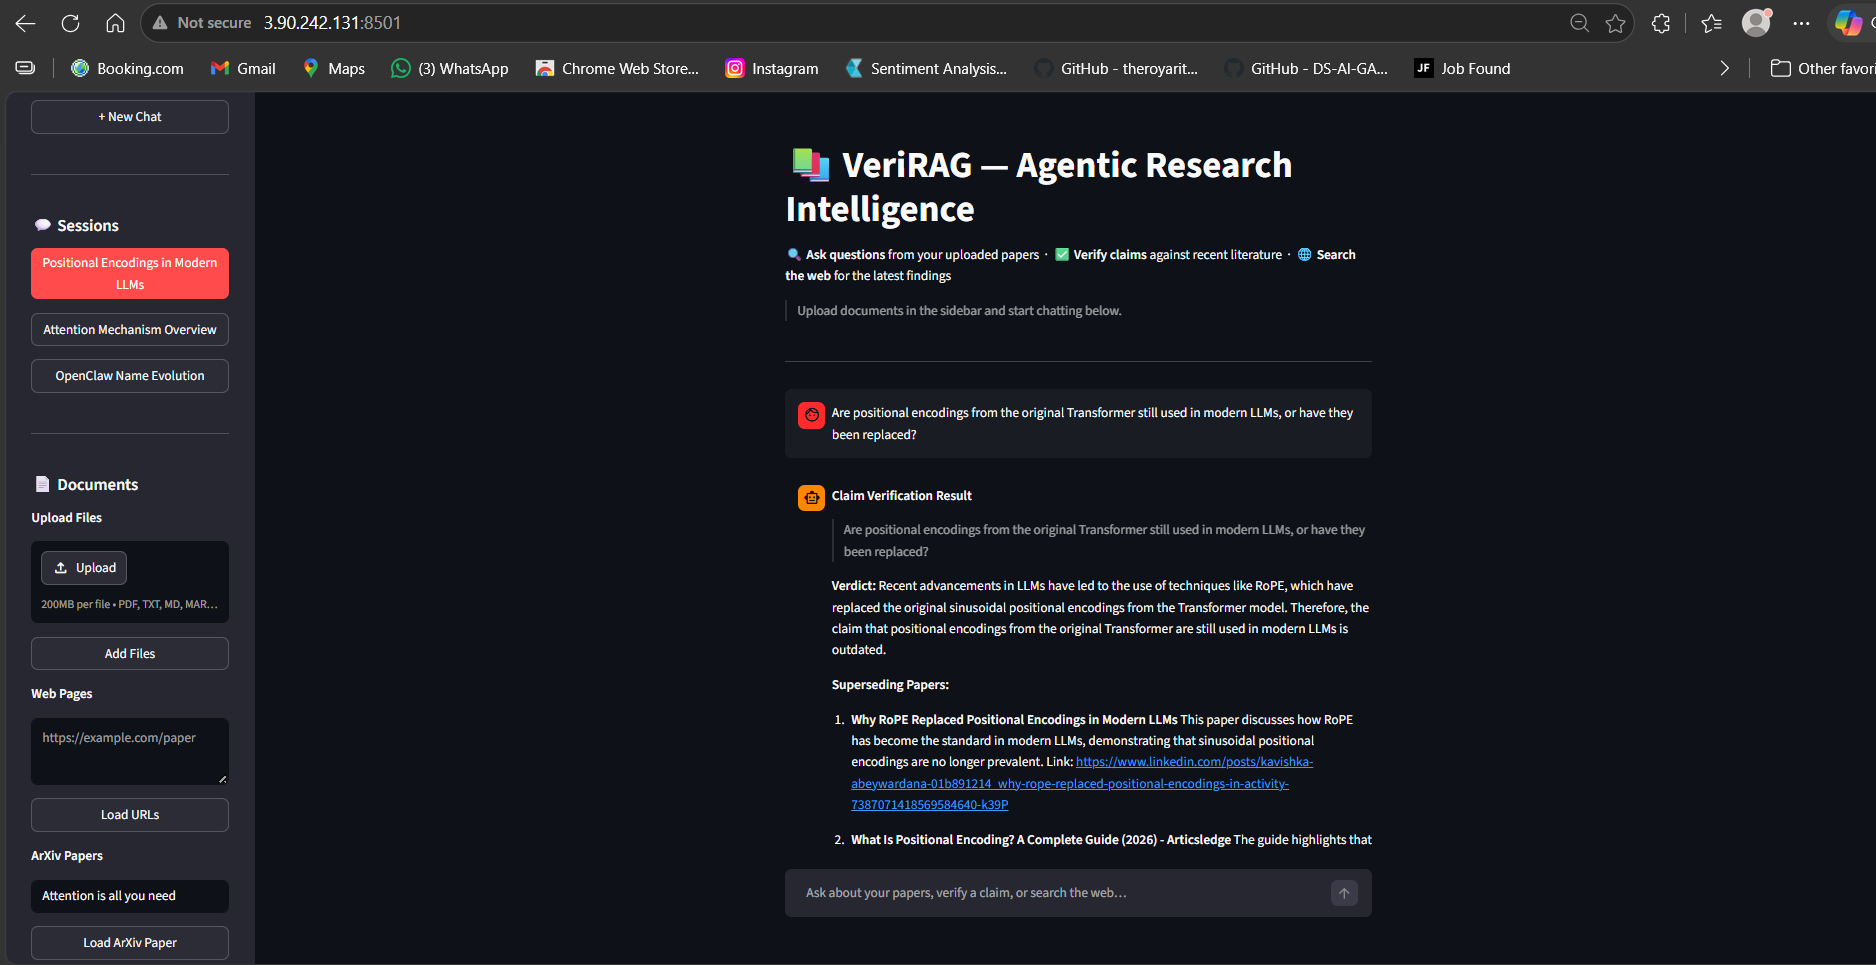
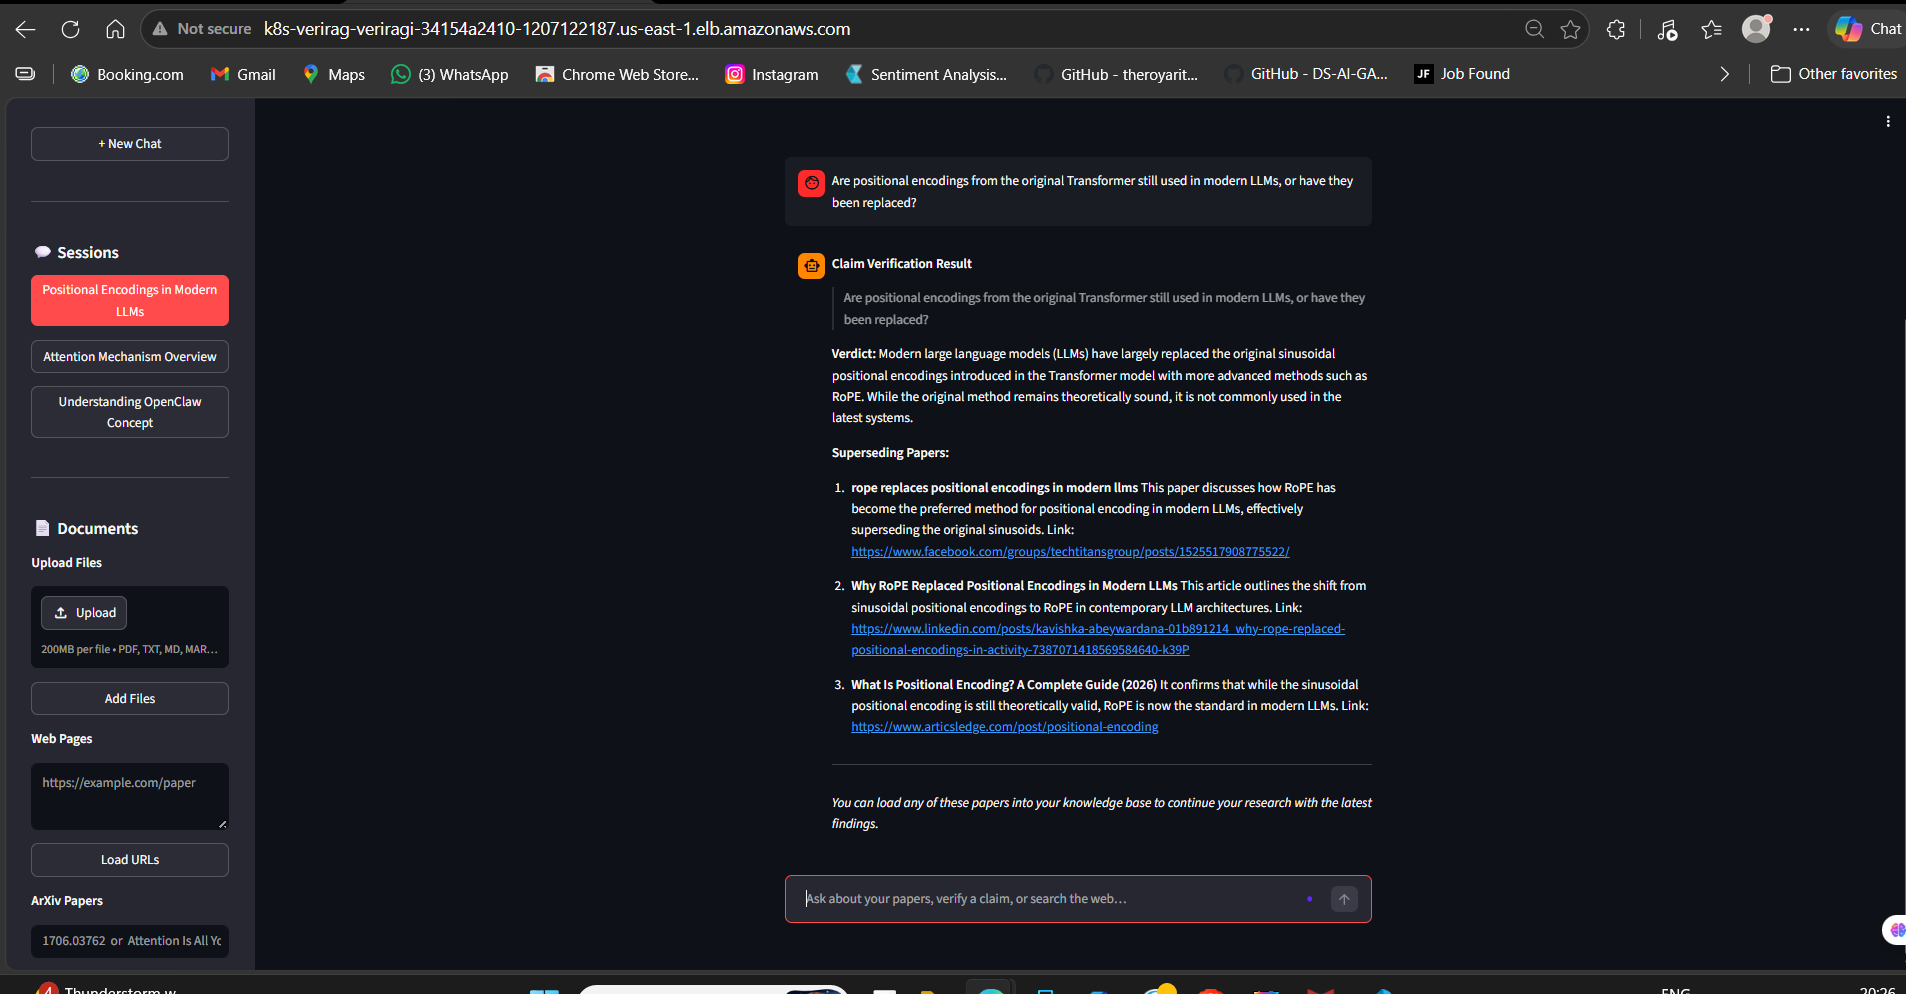
Updated readme.md file with final results after EKS deployment

diff --git a/README.md b/README.md
@@ -4,13 +4,14 @@
 
 ![Python](https://img.shields.io/badge/Python-3.12-blue?style=for-the-badge&logo=python&logoColor=white)
 ![FastAPI](https://img.shields.io/badge/FastAPI-REST%20Backend-009688?style=for-the-badge&logo=fastapi&logoColor=white)
-![AWS](https://img.shields.io/badge/AWS-EC2%20%2B%20ECR-232F3E?style=for-the-badge&logo=amazon-aws&logoColor=white)
+![AWS](https://img.shields.io/badge/AWS-EKS%20%2B%20ECR-232F3E?style=for-the-badge&logo=amazon-aws&logoColor=white)
 ![LangGraph](https://img.shields.io/badge/LangGraph-Agentic%20Pipeline-FF6B35?style=for-the-badge)
 ![GPT-4o-mini](https://img.shields.io/badge/GPT--4o--mini-Router%20%2B%20Generator-412991?style=for-the-badge&logo=openai&logoColor=white)
 ![Qdrant](https://img.shields.io/badge/Qdrant-Hybrid%20Retrieval-DC244C?style=for-the-badge)
 ![LangSmith](https://img.shields.io/badge/LangSmith-Observability-1C3C3C?style=for-the-badge)
 ![DeepEval](https://img.shields.io/badge/DeepEval-100%25%20Faithfulness-4CAF50?style=for-the-badge)
 ![Docker](https://img.shields.io/badge/Docker-Containerized-2496ED?style=for-the-badge&logo=docker&logoColor=white)
+![Kubernetes](https://img.shields.io/badge/Kubernetes-EKS%20HPA-326CE5?style=for-the-badge&logo=kubernetes&logoColor=white)
 ![Streamlit](https://img.shields.io/badge/Streamlit-Frontend-FF4B4B?style=for-the-badge&logo=streamlit&logoColor=white)
 
 ---
@@ -19,9 +20,7 @@
 
 **VeriRAG** is a **production-grade agentic RAG platform** that enables researchers to upload scientific papers, ask questions grounded in retrieved context, and verify whether specific research claims have been superseded by newer literature.
 
-Users upload papers → VeriRAG routes each query through an **intelligent LangGraph pipeline** — classifying intent, performing hybrid BM25 + dense retrieval with RRF fusion, running dual web searches for claim verification, and streaming answers token-by-token — all deployed on **AWS EC2** with Docker, full **LangSmith tracing**, **SlowAPI rate limiting**, and evaluated using **DeepEval** achieving **100% Faithfulness and 100% Answer Relevancy**.
-
-> **EKS Migration in Progress:** Production deployment is being migrated to AWS EKS with HPA autoscaling, rolling updates, and zero-downtime deployments. Kubernetes manifests and GitHub Actions CI/CD pipeline are complete and ready.
+Users upload papers → VeriRAG routes each query through an **intelligent LangGraph pipeline** — classifying intent, performing hybrid BM25 + dense retrieval with RRF fusion, running dual web searches for claim verification, and streaming answers token-by-token — all deployed on **AWS EKS** with HPA autoscaling, zero-downtime rolling updates, full **LangSmith tracing**, **SlowAPI rate limiting**, and evaluated using **DeepEval** achieving **100% Faithfulness and 100% Answer Relevancy**.
 
 ---
 
@@ -208,7 +207,7 @@ unrelated sections) alongside relevant text. Core RAG quality
 metrics — Faithfulness and Answer Relevancy — are both 100%.
 ```
 
-### Live Test on AWS EC2 — Research Paper Q&A
+### Live Test on AWS EKS — Research Paper Q&A
 
 ```
 Input:     "Give me summary of attention is all you need based on uploaded document"
@@ -232,6 +231,7 @@ Papers:    3 superseding papers with URLs and summaries
 Latency:   ~5.1s (dual search + structured generation)
 ```
 ![claim](docs/images/claim.png)
+
 ---
 
 ## ⚡ Infrastructure
@@ -240,29 +240,26 @@ Latency:   ~5.1s (dual search + structured generation)
 %%{init: {'theme': 'base', 'themeVariables': {'primaryColor': '#1e3a5f', 'primaryTextColor': '#ffffff', 'primaryBorderColor': '#4a90d9', 'lineColor': '#4a90d9', 'clusterBkg': '#0d2137', 'clusterBorder': '#4a90d9', 'titleColor': '#ffffff', 'nodeTextColor': '#ffffff'}}}%%
 flowchart TB
     subgraph AWS[AWS — us-east-1]
-        subgraph EC2[EC2 Instance — m7i-flex.large — Currently Deployed]
-            subgraph DC[Docker Compose]
-                FA2[FastAPI Container\nverirag-backend]
-                ST2[Streamlit Container\nverirag-frontend]
-                VOL1[Volume: verirag_data\nSQLite checkpoints]
-                VOL2[Volume: verirag_cache\nEmbedding cache]
+        subgraph EKS[EKS Cluster — Kubernetes 1.32 — Live]
+            subgraph NS[verirag namespace]
+                FA2[FastAPI Pods\nverirag-backend\nmin:2 max:5 HPA]
+                ST2[Streamlit Pod\nverirag-frontend\nreplicas:1]
+                HPA3[HPA — CPU 70% target]
+                VOL1[PV: verirag_data\nSQLite checkpoints]
+                VOL2[PV: verirag_cache\nEmbedding cache]
             end
+            ALB[AWS ALB — Internet Facing\nk8s-verirag-veriragi-34154a2410\n-1207122187.us-east-1.elb.amazonaws.com]
         end
         ECR3[ECR — 2 repositories\nverirag-backend + verirag-frontend]
         QDRANT4[Qdrant Cloud\nPer-session collections\nus-east-1]
     end
 
-    subgraph EKS_SOON[EKS Migration — In Progress]
-        K8S[Kubernetes Manifests Ready]
-        HPA2[HPA — FastAPI 2-5 pods]
-        CICD[GitHub Actions CI/CD\nBuild → ECR → Rolling Deploy]
-        ROLL[Zero-downtime Rolling Updates\nmaxUnavailable=0]
-    end
-
+    ALB --> FA2 & ST2
     ECR3 --> FA2 & ST2
     FA2 --> QDRANT4
     FA2 <--> VOL1
     FA2 <--> VOL2
+    HPA3 --> FA2
 
     style FA2 fill:#145a32,stroke:#27ae60,color:#fff
     style ST2 fill:#1a5276,stroke:#4a90d9,color:#fff
@@ -270,57 +267,8 @@ flowchart TB
     style VOL2 fill:#1b4f72,stroke:#5dade2,color:#fff
     style ECR3 fill:#784212,stroke:#f0b27a,color:#fff
     style QDRANT4 fill:#922b21,stroke:#f1948a,color:#fff
-    style K8S fill:#6e2f8a,stroke:#bb8fce,color:#fff
-    style HPA2 fill:#6e2f8a,stroke:#bb8fce,color:#fff
-    style CICD fill:#6e2f8a,stroke:#bb8fce,color:#fff
-    style ROLL fill:#6e2f8a,stroke:#bb8fce,color:#fff
-```
-
----
-
----
-
-## 📡 LangSmith Observability
-
-```python
-# backend/rag_graph.py — all nodes decorated with @traceable
-# LANGSMITH_TRACING=true in .env is all that is needed
-
-@traceable(name="router_node")
-def router_node(state: RAGState): ...
-
-@traceable(name="agent_node")
-def agent_node(state: RAGState): ...
-
-@traceable(name="relevancy_check_node")
-def relevancy_check_node(state: RAGState): ...
-
-@traceable(name="verify_claim_node")
-def verify_claim_node(state: RAGState): ...
-
-@traceable(name="generate_answer_node")
-def generate_answer_node(state: RAGState): ...
-
-# LangSmith dashboard shows per-run:
-# → per-node latency breakdown
-# → prompt + completion token counts per node
-# → exact inputs/outputs per node
-# → total cost per query
-```
-
----
-
-## 🔌 API Reference
-
-### Routes
-
-```
-GET  /health                          → Liveness probe — always 200
-GET  /ready                           → Readiness probe — 200 after LangGraph compiled
-GET  /sessions/{id}/info              → Collection stats, paper titles, hybrid flag
-GET  /sessions/{id}/history           → Reload past messages from SQLite checkpointer
-POST /sessions/{id}/ingest            → Upload PDF / URL / ArXiv ID → Qdrant
-POST /sessions/{id}/query             → Run RAG pipeline, stream answer tokens
+    style ALB fill:#6e2f8a,stroke:#bb8fce,color:#fff
+    style HPA3 fill:#6e2f8a,stroke:#bb8fce,color:#fff
 ```
 
 ---
@@ -342,8 +290,9 @@ POST /sessions/{id}/query             → Run RAG pipeline, stream answer tokens
 | Serving | FastAPI async — NDJSON streaming, Pydantic schemas |
 | Frontend | Streamlit — token streaming, session sidebar, sources expander |
 | Containerization | Docker — 2 independent containers, named volumes |
-| Infrastructure | AWS EC2 (m7i-flex.large) + ECR — currently deployed |
-| EKS Migration | Kubernetes manifests + HPA + GitHub Actions CI/CD — in progress |
+| Infrastructure | AWS EKS (Kubernetes 1.32) + ECR + ALB — live deployed |
+| Autoscaling | HPA — FastAPI 2-5 pods, CPU 70% target |
+| CI/CD | GitHub Actions — build → ECR → rolling deploy to EKS |
 | Monitoring | LangSmith — per-node latency, token costs, trace history |
 
 ---
@@ -363,7 +312,8 @@ POST /sessions/{id}/query             → Run RAG pipeline, stream answer tokens
 | Eval cost | ~$0.049 per full run (10 test cases) |
 | Stream protocol | NDJSON — token events + done event |
 | Verification searches | 2 Tavily calls per verify_claim query |
-| Deployment | AWS EC2 — publicly accessible |
+| EKS nodes | 2 × t3.medium, us-east-1 |
+| FastAPI pods | 2 min → 5 max (HPA) |
 | ECR repositories | 2 (verirag-backend, verirag-frontend) |
 
 ---
@@ -387,25 +337,15 @@ cp .env.example .env
 # Run locally — 2 terminals
 uvicorn backend.api:app --host 0.0.0.0 --port 8000 --reload   # Terminal 1
 streamlit run app.py                                            # Terminal 2
-
-# Health check
-curl http://localhost:8000/health
-
-# Swagger UI
-open http://localhost:8000/docs
-
-# Streamlit UI
-open http://localhost:8501
 ```
 
-### Docker Compose (Recommended)
+### Docker Compose
 
 ```bash
 docker compose up --build
-
-# Verify
-curl http://localhost:8000/health   # → {"status":"ok"}
-open http://localhost:8501          # → Streamlit UI
+# FastAPI  → http://localhost:8000/health
+# Swagger  → http://localhost:8000/docs
+# Streamlit → http://localhost:8501
 ```
 
 ### Run Evaluation
@@ -421,46 +361,27 @@ python evaluate.py
 ## 🔑 System Modes
 
 ### Mode 1 — Document Q&A
-
 ```
-Upload PDF / URL / ArXiv ID → Ask questions → Get grounded answers with sources
-
-Example:
-  Input:  "What methodology did the authors use?"
-  Route:  retrieve
-  Output: Answer grounded in retrieved chunks + sources expander
+Upload PDF / URL / ArXiv ID → Ask questions → Grounded answers with sources
+Route: retrieve
 ```
 
 ### Mode 2 — Claim Verification
-
 ```
-Ask if a research finding is still current → Get verdict with superseding papers
-
-Example:
-  Input:  "Is attention mechanism still the standard in modern LLMs?"
-  Route:  verify_claim
-  Output: Verdict (VALID/OUTDATED) + superseding papers with URLs
+Ask if a research finding is still current → Verdict with superseding papers
+Route: verify_claim
 ```
 
 ### Mode 3 — Direct Answer
-
 ```
-General knowledge questions need no retrieval
-
-Example:
-  Input:  "What is the transformer architecture?"
-  Route:  direct_answer
-  Output: Answer from model knowledge — no retrieval cost
+General knowledge questions — no retrieval cost
+Route: direct_answer
 ```
 
 ### Mode 4 — /btw Side Channel
-
 ```
-Quick question without saving to session history
-
-Example:
-  Input:  /btw what is RoPE?
-  Output: Instant answer — not saved to chat history
+Quick question not saved to session history
+Usage: /btw what is RoPE?
 ```
 
 ---
